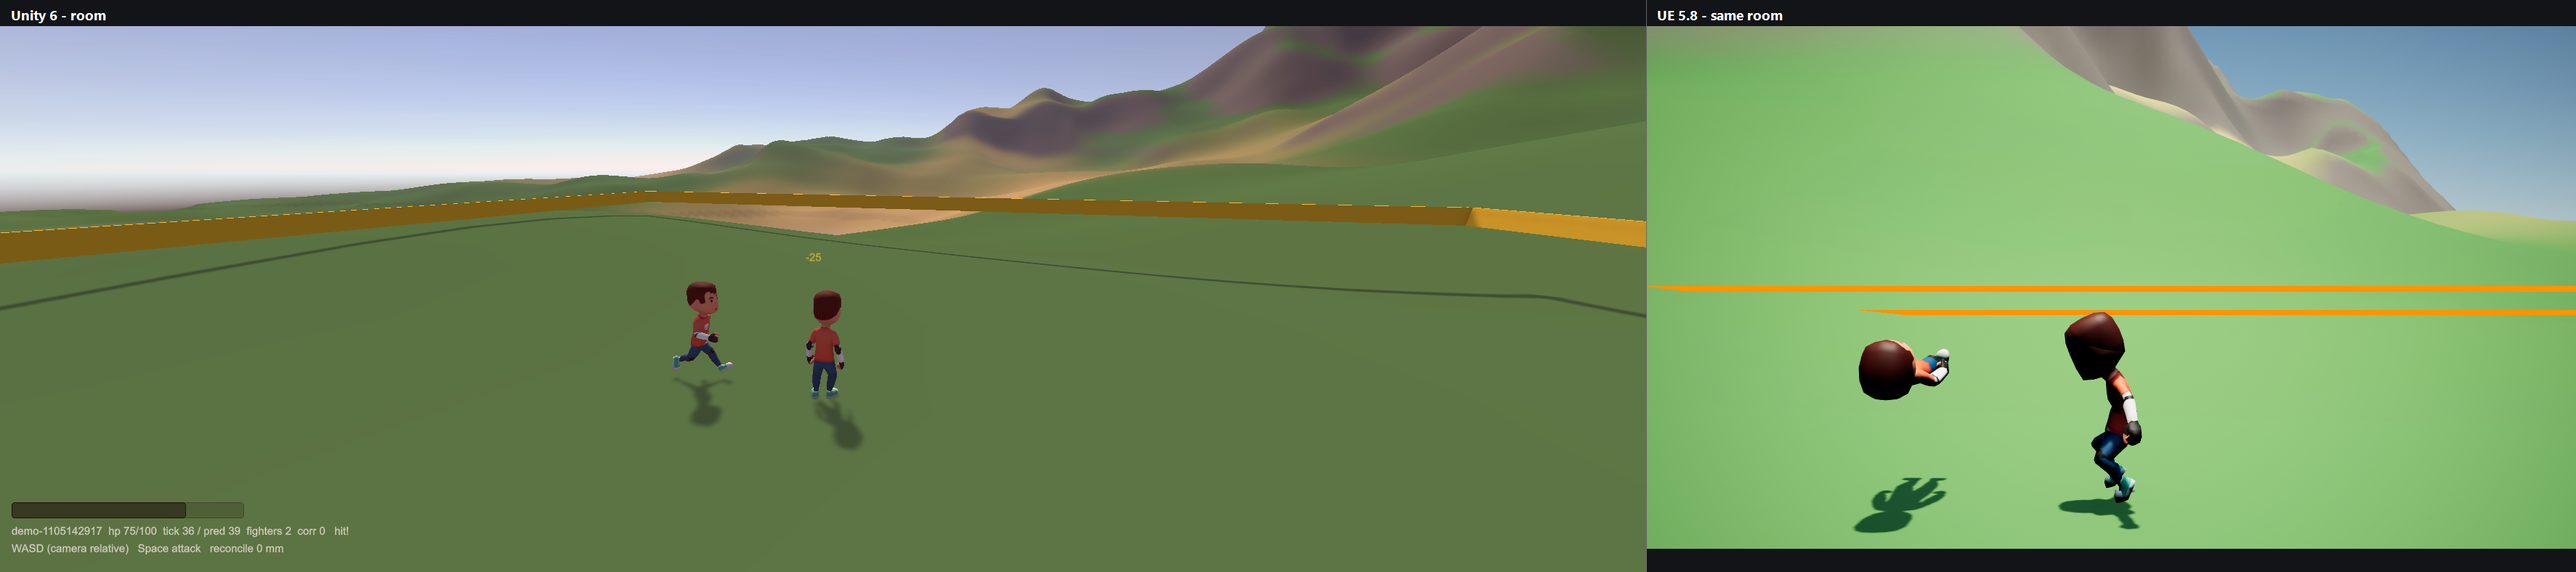
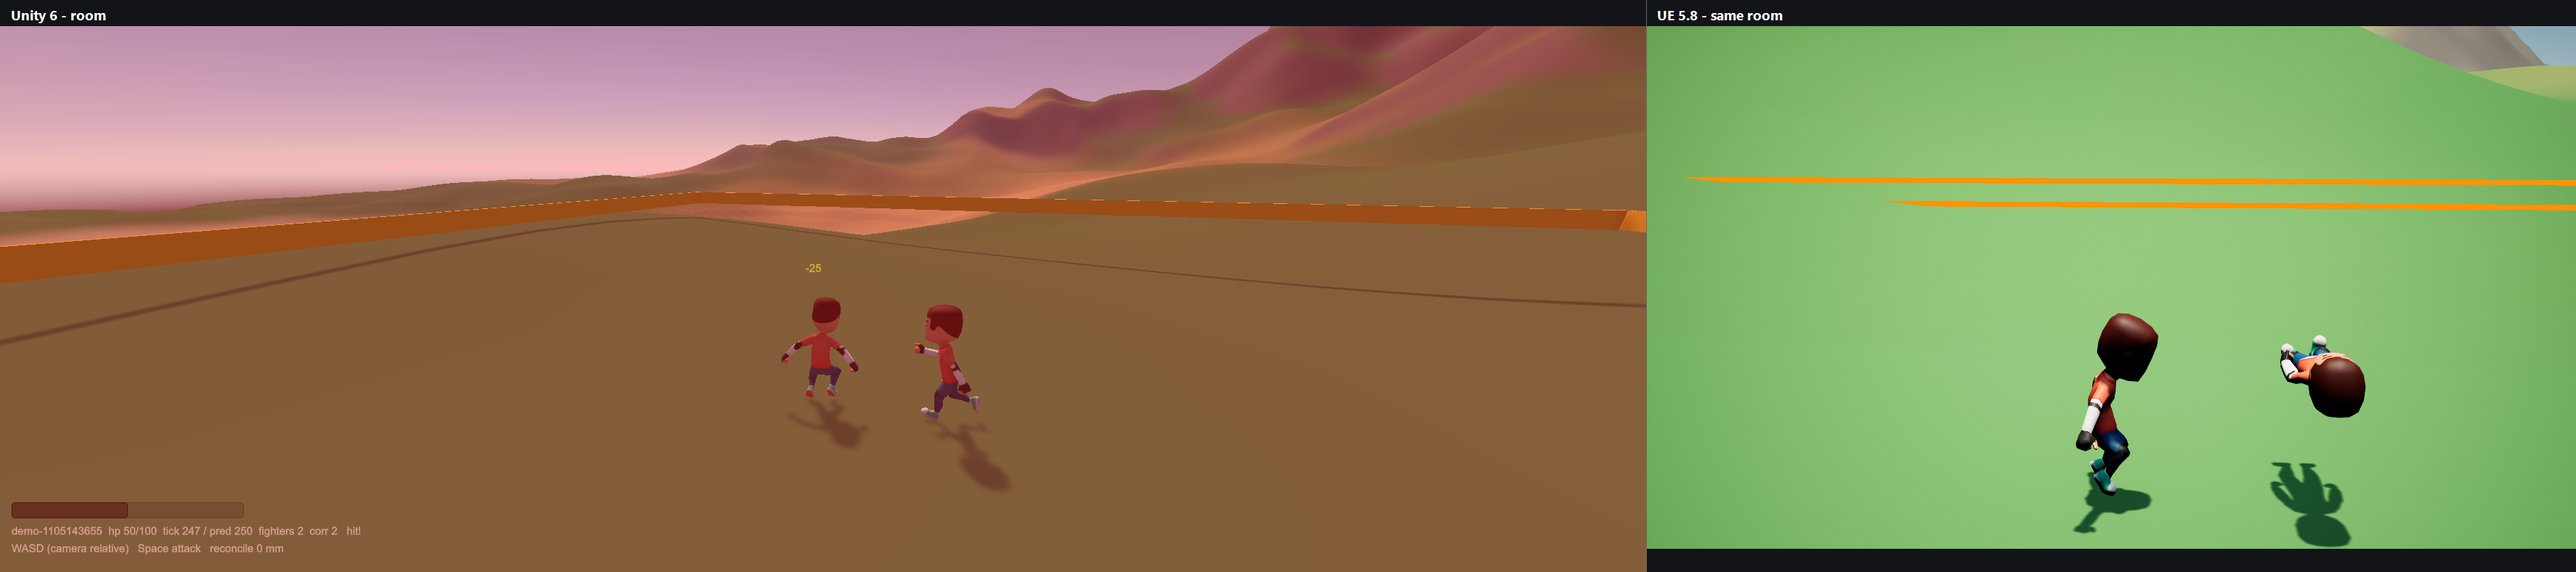
feat(phase1): 预测校正计数与推挤验证（corr=3）
- Unity: PredictionState 增加 Corrections，回滚时累加；HUD 的 corr 改读 ECS
- UE: 新增 -AI003RoomPusher，持续顶住目标用于分离/预测验证
- 实测：Unity 房间 + UE 推挤 bot 15 s，corr=3（<5 目标）
- docs: README/UE 规格记录分离预测与推挤验证

diff --git a/clients/unity/UnityGameClient/Assets/Scripts/Net/RoomClient.cs b/clients/unity/UnityGameClient/Assets/Scripts/Net/RoomClient.cs
@@ -34,7 +34,7 @@ namespace AI003.Net
 
         public int PredictedTick => _bridge != null ? _bridge.LocalTick : 0;
         public int ServerTick => _bridge != null ? _bridge.ServerTick : 0;
-        public int Corrections => _corrections;
+        public int Corrections => _bridge != null ? _bridge.Corrections : 0;
         public float LastError => _lastError;
         public Vector3 PredictedPosition => _bridge != null ? _bridge.GetLocalPositionMeters() : Vector3.zero;
         public int LastCommandDX => _lastDX;
@@ -725,7 +725,7 @@ namespace AI003.Net
 
             string eventText = Time.unscaledTime < _lastEventUntil ? "   " + _lastEvent : "";
             GUI.Label(new Rect(16f, Screen.height - 68f, 760f, 24f),
-                $"{RoomId}  hp {HP}/{MaxHP}  tick {Tick} / pred {PredictedTick}  fighters {Players}  corr {_corrections}{eventText}", _style);
+                $"{RoomId}  hp {HP}/{MaxHP}  tick {Tick} / pred {PredictedTick}  fighters {Players}  corr {Corrections}{eventText}", _style);
             GUI.Label(new Rect(16f, Screen.height - 44f, 760f, 24f),
                 $"WASD (camera relative)   Space attack   reconcile {_lastError * 1000f:F0} mm", _style);
 

diff --git a/clients/ue5/UE5GameClient/Source/UE5GameClient/Net/NetSyncSubsystem.cpp b/clients/ue5/UE5GameClient/Source/UE5GameClient/Net/NetSyncSubsystem.cpp
@@ -43,6 +43,7 @@ void UNetSyncSubsystem::Initialize(FSubsystemCollectionBase& Collection)
 	FParse::Value(FCommandLine::Get(), TEXT("AI003Url="), Endpoint);
 	bRoomEnabled = FParse::Param(FCommandLine::Get(), TEXT("AI003Room"));
 	bRoomBot = FParse::Param(FCommandLine::Get(), TEXT("AI003RoomBot"));
+	bRoomPusher = FParse::Param(FCommandLine::Get(), TEXT("AI003RoomPusher"));
 	ClientID = LoadOrCreateClientId();
 
 	if (!FModuleManager::Get().IsModuleLoaded(TEXT("WebSockets")))
@@ -497,7 +498,8 @@ UNetSyncSubsystem::FRoomCommand UNetSyncSubsystem::ReadRoomCommand() const
 			}
 		}
 
-		if (NearestDist > 180.f)
+		// Pusher mode walks into the other fighter on purpose (separation test).
+		if (NearestDist > (bRoomPusher ? 0.f : 180.f))
 		{
 			const float DeltaX = NearestPos.X - PredictedPos.X;
 			const float DeltaY = NearestPos.Y - PredictedPos.Y;

diff --git a/clients/unity/UnityGameClient/Assets/Scripts/Ecs/LocalPredictionSystem.cs b/clients/unity/UnityGameClient/Assets/Scripts/Ecs/LocalPredictionSystem.cs
@@ -88,6 +88,7 @@ namespace AI003.Ecs
             prediction.PositionMm = snapshot.PositionMm;
             prediction.Tick = snapshot.Tick;
             prediction.Accumulator = 0f;
+            prediction.Corrections++;
 
             for (int i = 0; i < steps.Length; i++)
             {

diff --git a/clients/unity/UnityGameClient/Assets/Scripts/Ecs/RoomEcsBridge.cs b/clients/unity/UnityGameClient/Assets/Scripts/Ecs/RoomEcsBridge.cs
@@ -291,6 +291,8 @@ namespace AI003.Ecs
             facingZ = prediction.FacingZ;
         }
 
+        public int Corrections => LocalPrediction().Corrections;
+
         public int SeparationBodyCount()
         {
             if (_local == Entity.Null || !Em.Exists(_local)) return -1;

diff --git a/clients/unity/UnityGameClient/Assets/Scripts/Ecs/FighterComponents.cs b/clients/unity/UnityGameClient/Assets/Scripts/Ecs/FighterComponents.cs
@@ -58,6 +58,7 @@ namespace AI003.Ecs
         public int HalfExtentMm;
         public int SpeedMm;
         public int DiagonalMm;
+        public int Corrections;
     }
 
     /// <summary>Latest player command, written by the network bridge each frame.</summary>

diff --git a/clients/ue5/UE5GameClient/Source/UE5GameClient/Net/NetSyncSubsystem.h b/clients/ue5/UE5GameClient/Source/UE5GameClient/Net/NetSyncSubsystem.h
@@ -94,6 +94,7 @@ private:
 	bool bRoomEnabled = false;
 	bool bRoomActive = false;
 	bool bRoomBot = false;
+	bool bRoomPusher = false;
 	FString RoomId;
 	int32 RoomTick = 0;
 	int32 RoomHP = 100;

diff --git a/README.md b/README.md
@@ -156,7 +156,8 @@ Unity 端已从"每个角色一个 MonoBehaviour 驱动"迁移到 **Entities 6.6
 - 多房间：容量 8，`room.enter` 省略房间号即**自动匹配**（人数最少且有位，满则新建），
   `room.list` 返回房间列表；角色间有 400 mm 半径的整数分离，不会重叠站位
 - 客户端预测：本地按同一套整数规则领先服务器 3 ticks 模拟，输入带 tick 号发送；
-  服务器帧到达后对比，误差 >50 mm 才回滚到权威位置并重放未确认输入（HUD 显示 corr/误差）
+  服务器帧到达后对比，误差 >50 mm 才回滚到权威位置并重放未确认输入（HUD 显示 corr）；
+本地预测同样按 20 mm 步进做角色分离（`SeparationBody` 缓冲），推挤 bot 实测 15 s 校正 3 次。
 - **战斗表现**：竞技场四周围栏、出拳前冲、受击闪红（UE 用缩放脉冲 + 红色球）、
   伤害数字、死亡倒地变灰、复活恢复；服务器在每次出拳广播 `attack` 事件（落空也有）
 - **断线重连**：客户端持久 `clientId`（Unity `PlayerPrefs` / UE `Saved/ClientId.txt`），
@@ -422,7 +423,7 @@ Restricted，`.cmd` 会自动带 `-ExecutionPolicy Bypass`）。
 | 世界同步身份 | 大世界的 `join` 仍以会话 id 记玩家，重连会新建 | 世界玩家也改用 `clientId` 持久身份 |
 | 双端画面统一 | 机位/角色/天空/曝光已对齐；平均像素差 7.2/255，色调仍有细微差 | 统一色彩分级/LUT，继续压低差值 || 指标回归 | `/demo` 与 `demo-scenario` 可手工跑 | 纳入 `smoke-all`/CI，保存基线并比较 |
 | 预测范围 | 只预测位置/朝向；血量、冷却、命中仍等服务器帧 | 命中/受击也做预测 + 视觉反馈 |
-| 预测与分离 | 预测不含角色间分离，贴身推挤时校正次数偏高 | 在预测步进里加入确定性的角色分离 |
+| 预测与分离 | 预测已包含 20 mm 整数分离；推挤 bot 实测 15 s `corr=3`（阈值 <5） | 已满足演示需求 |
 | 竞技场表现 | 有围栏、前冲、伤害数字、倒地，但围栏无碰撞、非正式场景 | 独立竞技场场景与正式特效 |
 | UE 战斗表现 | 围栏/受击反馈用 `DrawDebugBox`/`DrawDebugSphere`/`DrawDebugString` | 换成正式模型/材质/ Niagara 特效 |
 | 远端动画 | 用服务器派生的 anim 名称做单节点切换，无混合、无位移匹配 | 状态机/混合树、脚步同步 |

diff --git a/docs/specs/ue5-client.md b/docs/specs/ue5-client.md
@@ -106,6 +106,7 @@ Plugins/EngineWire/            第三方 MCP 插件（不入库）
 - 房间截图：`-AI003RoomShot` 在进房 20 s 后由引擎自身截图到
   `artifacts/demo/room-ue5.png` 并退出（不依赖窗口焦点）；`scripts/demo-room.cmd` 使用。
 - Bot：`-AI003RoomBot` 走向最近的远端玩家，1.8 m 处停下并持续攻击（服务器冷却门控）；
+  `-AI003RoomPusher` 改为持续顶住目标，用于验证分离/预测校正；
   距离阈值以**厘米**为单位（`FVector::Dist2D` 返回 cm）。
 - 光照：Sun 的 `ForwardShadingPriority=1`、Fill 为 0，消除 "multiple directional lights"
   的前向着色警告。
